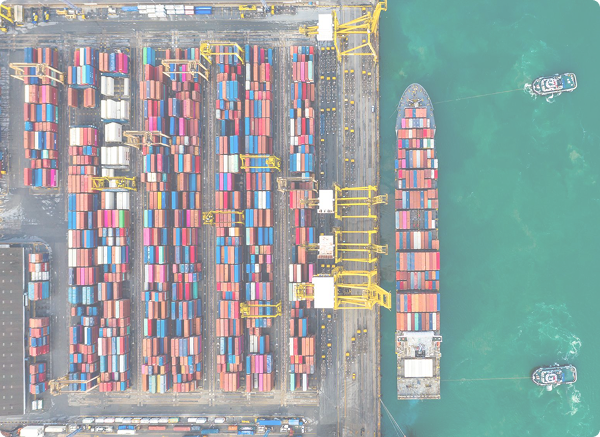
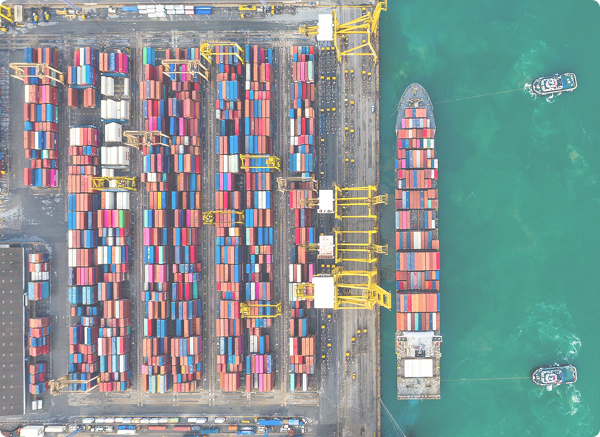
Make small design changes in landing page

diff --git a/landing.html b/landing.html
@@ -77,9 +77,9 @@
 
         <!-- Desktop nav -->
         <nav aria-label="Hauptnavigation" class="hidden lg:flex items-center gap-8">
-          <a href="#so-funktionierts" class="text-sm font-bold text-slate-500 uppercase tracking-[0.28px] hover:text-slate-800 transition-colors duration-150">So funktioniert's</a>
-          <a href="#ueber-das-projekt" class="text-sm font-bold text-slate-500 uppercase tracking-[0.28px] hover:text-slate-800 transition-colors duration-150">Über das Projekt</a>
-          <a href="/login.html" class="flex items-center gap-2 text-sm font-bold text-slate-500 uppercase tracking-[0.28px] hover:text-slate-800 transition-colors duration-150">
+          <a href="#so-funktionierts" class="text-sm font-medium text-slate-500 uppercase tracking-[0.28px] hover:text-slate-800 transition-colors duration-150">So funktioniert's</a>
+          <a href="#ueber-das-projekt" class="text-sm font-medium text-slate-500 uppercase tracking-[0.28px] hover:text-slate-800 transition-colors duration-150">Über das Projekt</a>
+          <a href="/login.html" class="flex items-center gap-2 text-sm font-medium text-slate-500 uppercase tracking-[0.28px] hover:text-slate-800 transition-colors duration-150">
             <i data-lucide="circle-user" class="w-4 h-4"></i>
             Anmelden
           </a>
@@ -190,7 +190,7 @@
                 width="600"
                 height="437"
                 loading="lazy"
-                class="w-full rounded-lg object-cover opacity-60"
+                class="w-full rounded-lg object-cover"
               />
             </div>
 
@@ -456,9 +456,9 @@
         <div class="max-w-[1200px] mx-auto flex items-center justify-between">
           <img src="/images/enetra-logo.png" alt="Enetra" class="h-5 w-32 object-contain" />
           <nav class="flex items-center gap-8">
-            <a href="#" class="text-sm font-bold text-slate-500 hover:text-slate-800 transition-colors duration-150">Impressum</a>
-            <a href="#" class="text-sm font-bold text-slate-500 hover:text-slate-800 transition-colors duration-150">Datenschutz</a>
-            <a href="#" class="text-sm font-bold text-slate-500 hover:text-slate-800 transition-colors duration-150">Reiner Lemoine Institut</a>
+            <a href="#" class="text-sm font-medium text-slate-500 hover:text-slate-800 transition-colors duration-150">Impressum</a>
+            <a href="#" class="text-sm font-medium text-slate-500 hover:text-slate-800 transition-colors duration-150">Datenschutz</a>
+            <a href="#" class="text-sm font-medium text-slate-500 hover:text-slate-800 transition-colors duration-150">Reiner Lemoine Institut</a>
           </nav>
         </div>
       </div>
